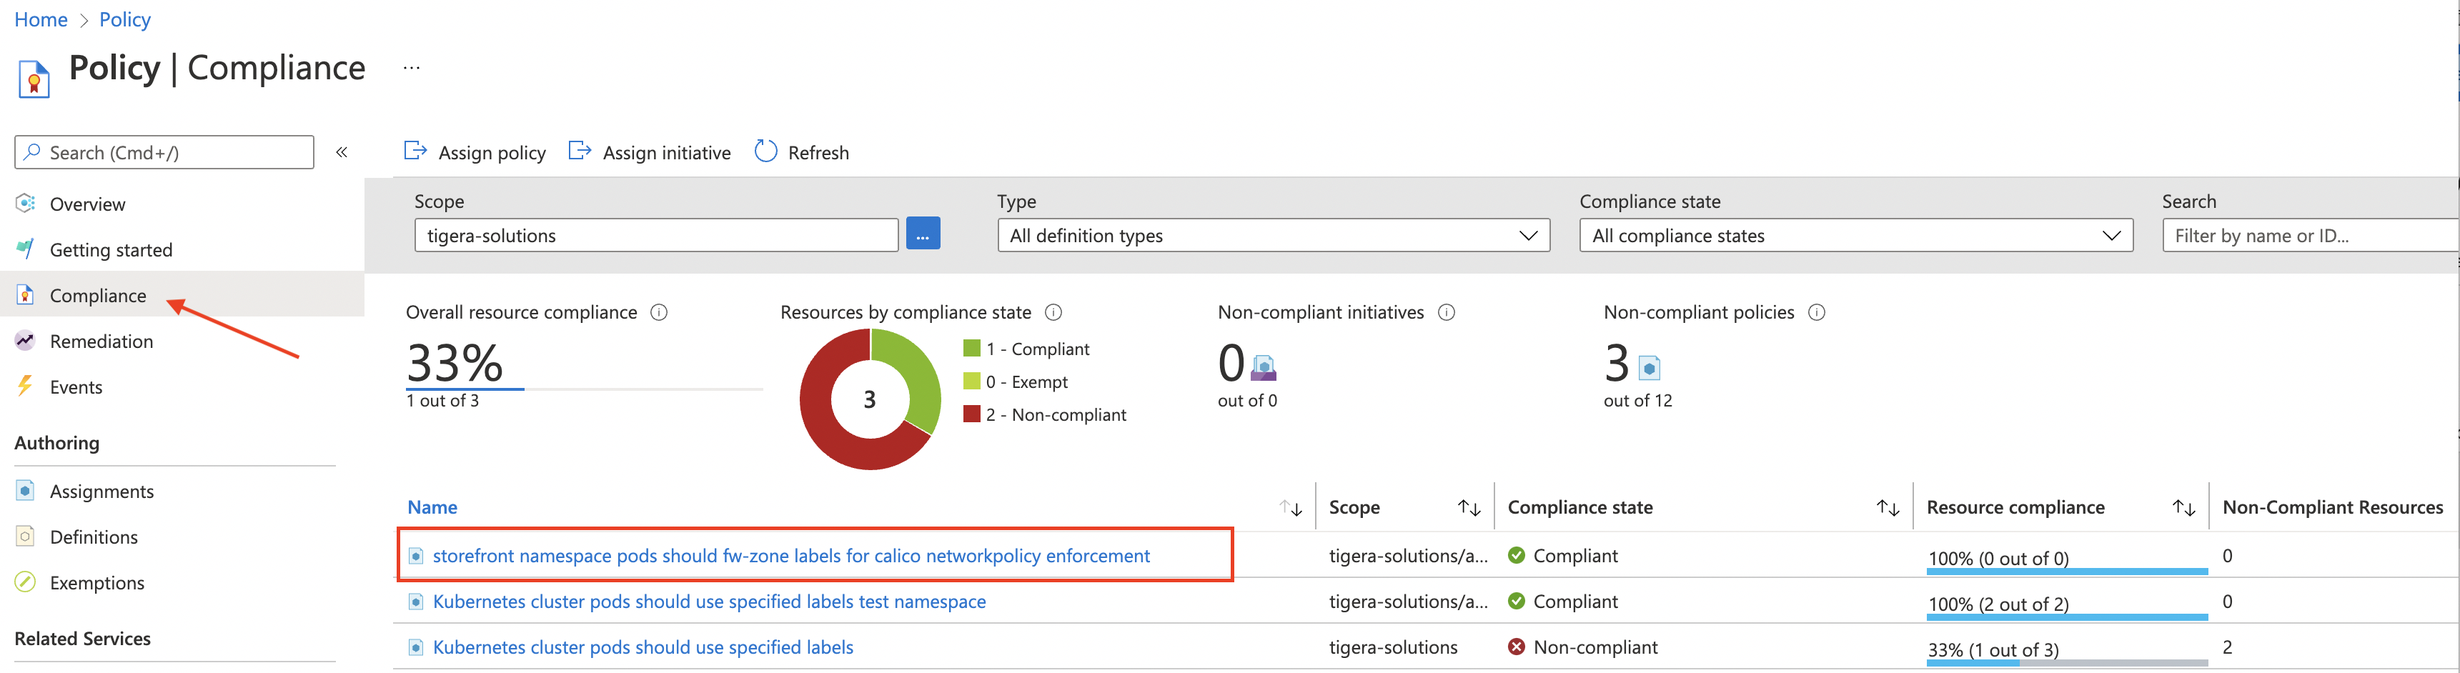
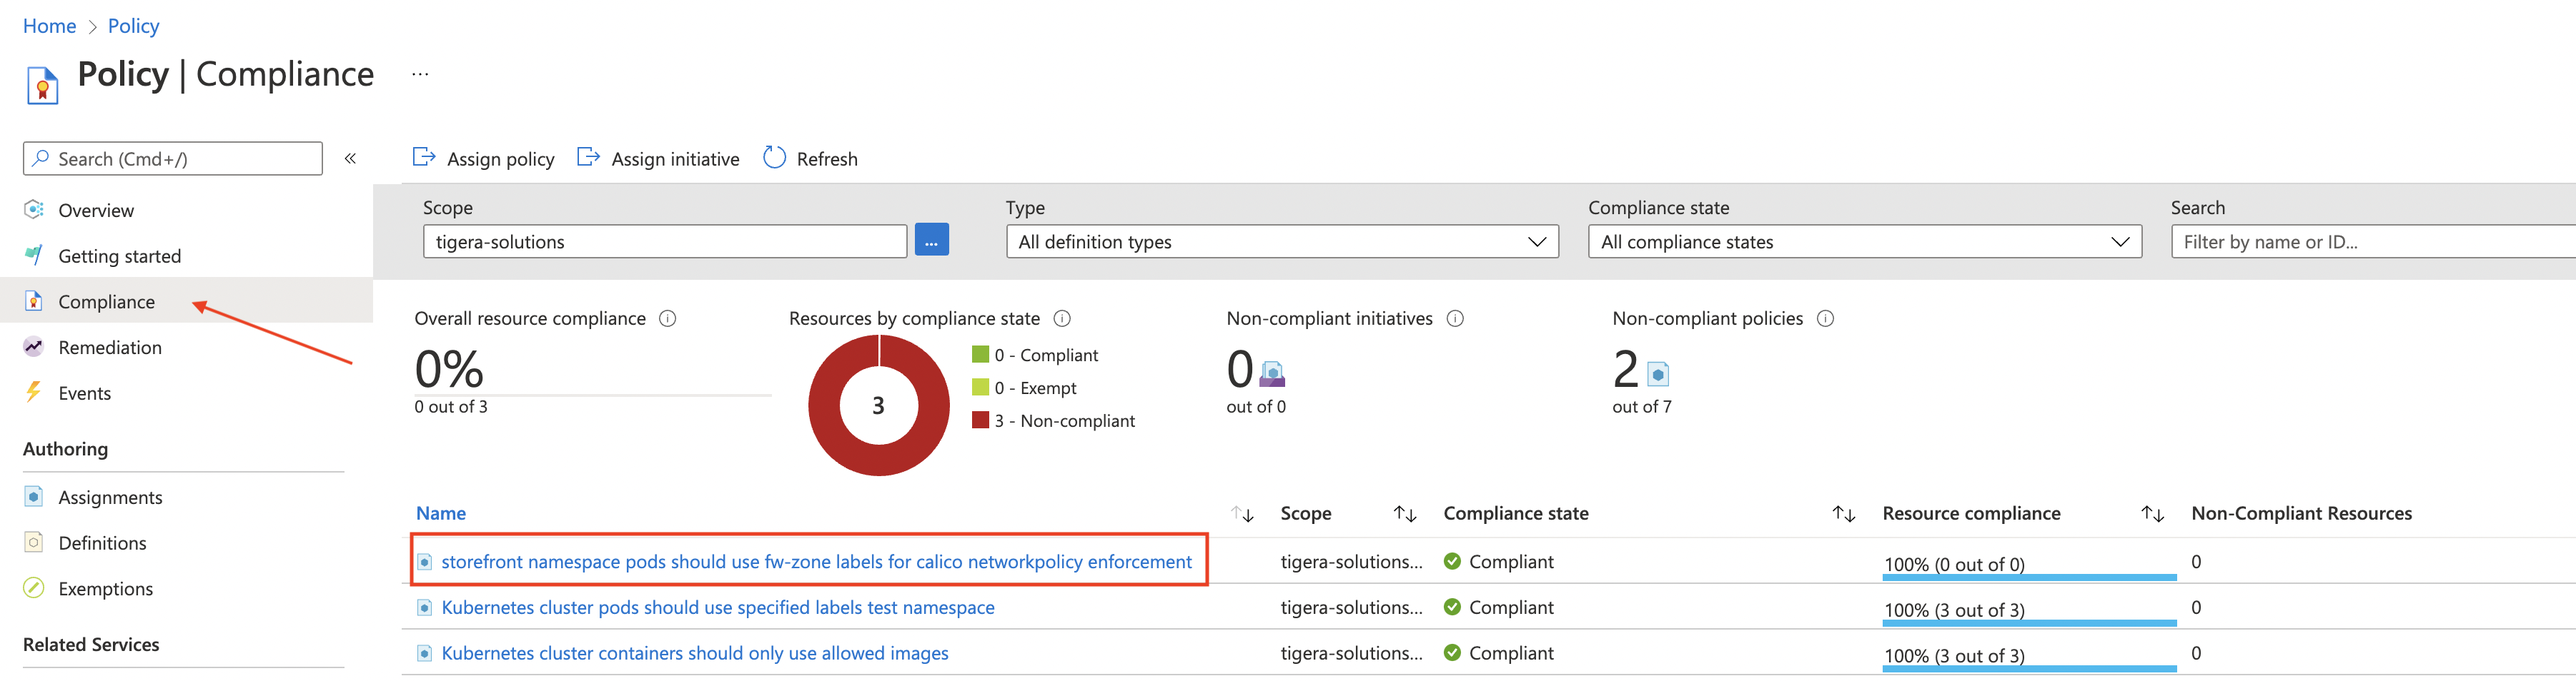
d

diff --git a/docs/azure_arc_jumpstart/azure_arc_k8s/day2/calico/_index.md b/docs/azure_arc_jumpstart/azure_arc_k8s/day2/calico/_index.md
@@ -116,13 +116,14 @@ The following README will guide you on how to use a Azure Policy [Azure Policy f
 * In the below example, make sure _Category_ is set to _Kubernetes_ only, and type `label` in _Search_, you will find `Kubernetes cluster pods should use specified labels` in _BuiltIn_ Type.
 
     ![Find the pod label policy for Kubernetes cluster](./09.png)
+
     ![BuiltIn label policy for Kubernetes cluster](./10.png)
 
 * Click this policy, and assign it to your Azure resource group which includes the Azure Arc-enabled Kubernetes clusters. Alternatively, you can assign the policy to entre Azure subscription.
   
   ![Assign Azure policy ](./11.png) 
 
-* Rename the assignment for distigushing purpose, such as `storefront namespace pods should fw-zone labels for calico networkpolicy enforcement`.
+* Rename the assignment for distigushing purpose, such as `storefront namespace pods should use fw-zone labels for calico networkpolicy enforcement`.
 
   ![Assignment name](./12.png)
 
@@ -135,6 +136,7 @@ The following README will guide you on how to use a Azure Policy [Azure Policy f
   ![Compliance list](./14.png)
 
 > **Note: The process of evaluation against the cluster can take 30min, you will see 0 out of 0 in `Resource compliance` as it hasn't started yet.**
+
 
 
 * After the evaluation, the policy will inform you the result and also provide the details if there is any `non-compliance` resource.  
